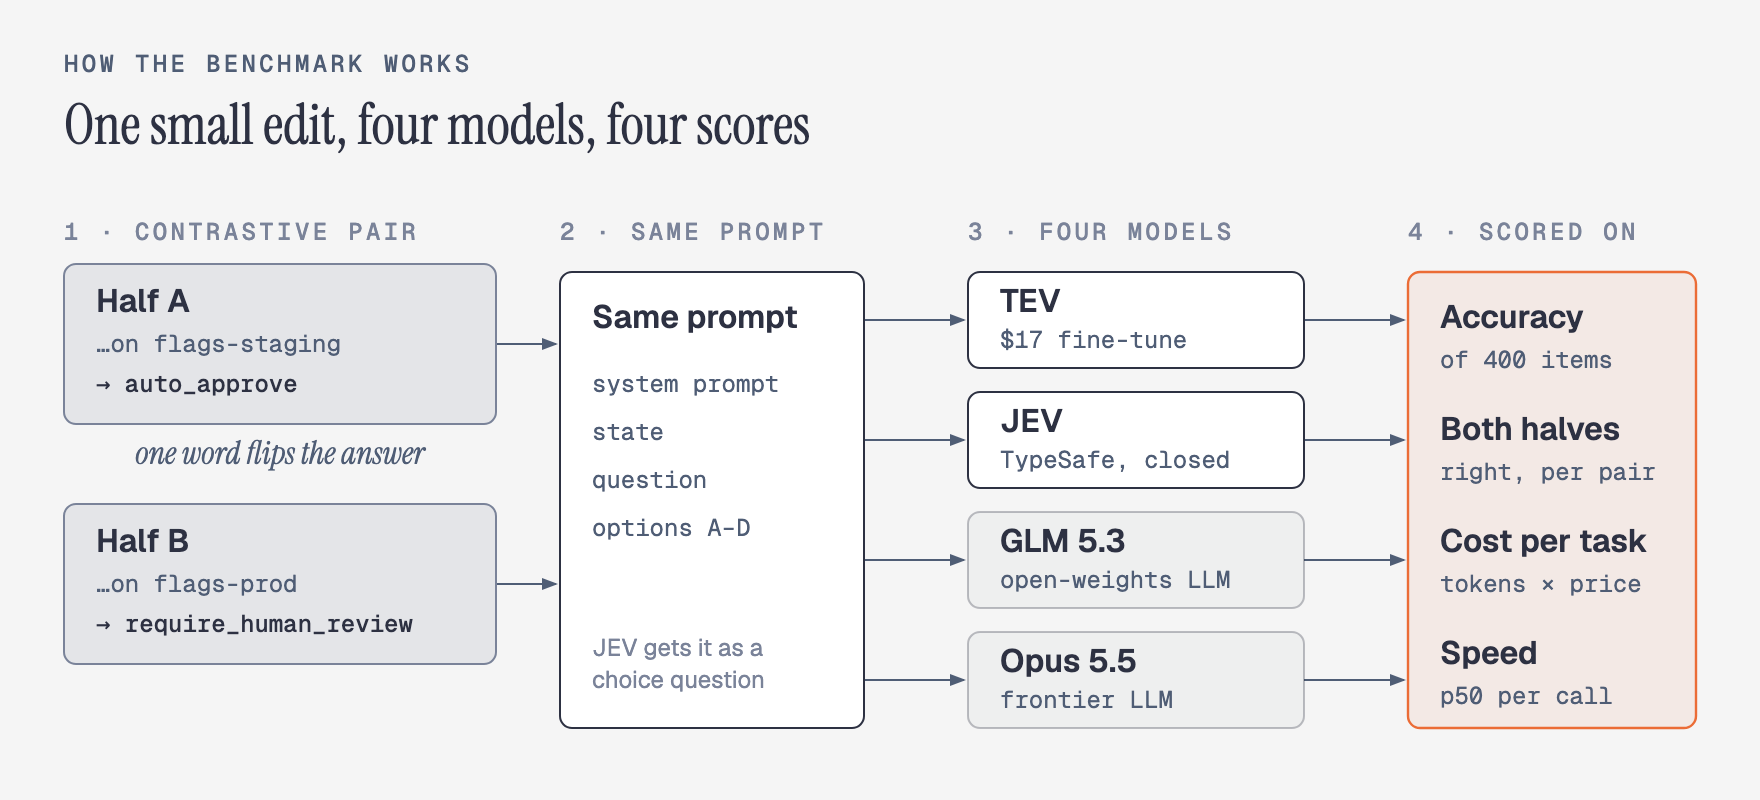
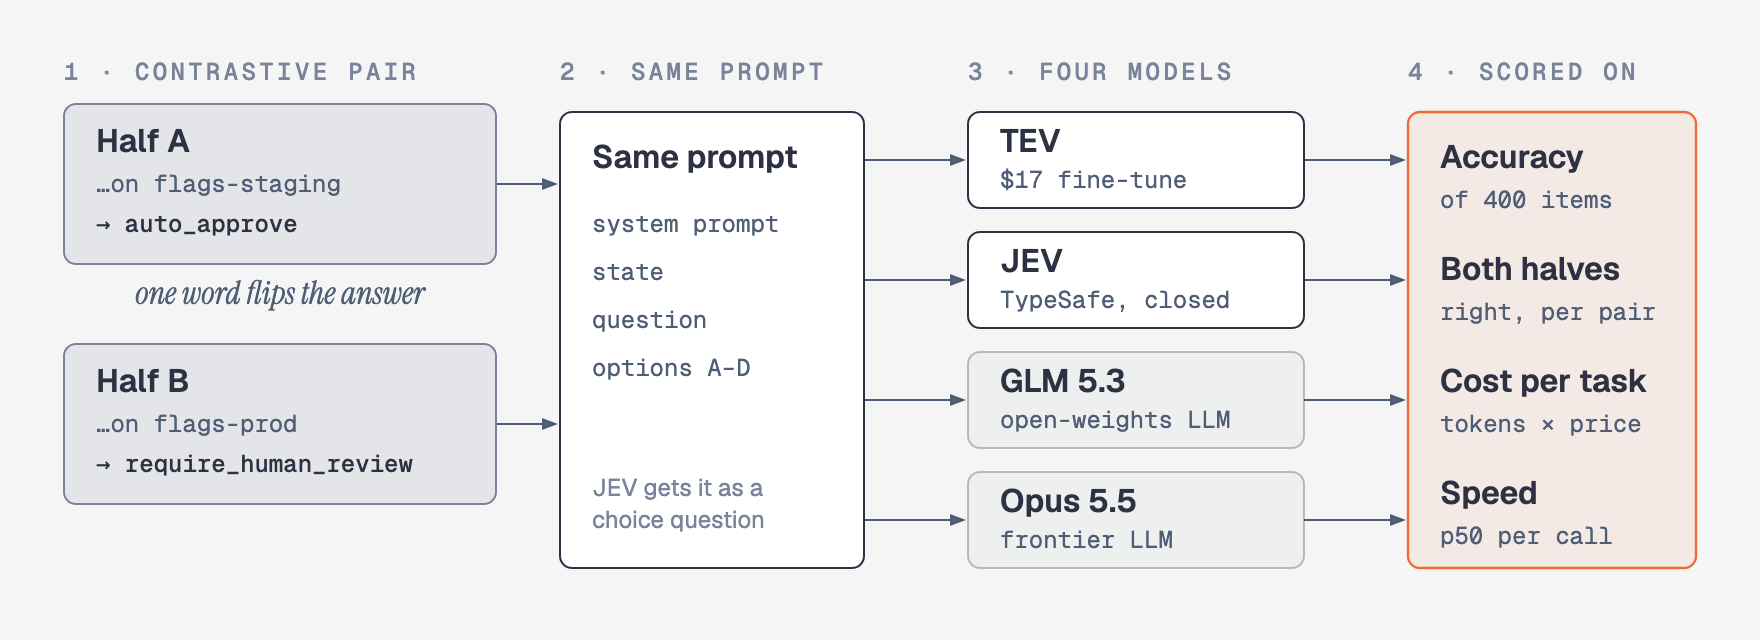
Drop title and kicker from README diagrams
The headline-style titles read as filler; the README headings and alt text
already carry the context. Each diagram is cropped so it starts at the chart.

diff --git a/docs/diagrams/how-it-works.html b/docs/diagrams/how-it-works.html
@@ -1,11 +1,9 @@
 <!DOCTYPE html><html lang="en"><head><meta charset="UTF-8"><title>how-it-works</title><link href="https://fonts.googleapis.com/css2?family=Instrument+Serif:ital@0;1&family=Geist:wght@400;500;600&family=Geist+Mono:wght@400;500;600&display=swap" rel="stylesheet"><style>*{margin:0;padding:0}body{background:#f5f5f5}svg{display:block}</style></head><body>
-<svg viewBox="0 0 880 400" width="880" height="400" xmlns="http://www.w3.org/2000/svg" role="img" aria-labelledby="how-it-works-title how-it-works-desc">
+<svg viewBox="0 80 880 320" width="880" height="320" xmlns="http://www.w3.org/2000/svg" role="img" aria-labelledby="how-it-works-title how-it-works-desc">
 <title id="how-it-works-title">One small edit, four models, four scores</title>
 <desc id="how-it-works-desc">Flow diagram: two halves of a contrastive pair differ by one word and have different correct answers; both go through the same prompt to TEV, JEV, GLM 5.3 and Opus 5.5, and each model is scored on accuracy, pair accuracy, cost per task and speed.</desc>
 <defs><marker id="arrow" markerWidth="8" markerHeight="6" refX="7" refY="3" orient="auto"><polygon points="0 0, 8 3, 0 6" fill="#4f5d75"/></marker><marker id="arrow-accent" markerWidth="8" markerHeight="6" refX="7" refY="3" orient="auto"><polygon points="0 0, 8 3, 0 6" fill="#eb6c36"/></marker></defs>
-<rect width="100%" height="100%" fill="#f5f5f5"/>
-<text x="32" y="36" fill="#4f5d75" font-size="12" font-family="'Geist Mono', ui-monospace, monospace" font-weight="500" text-anchor="start" letter-spacing="0.14em">HOW THE BENCHMARK WORKS</text>
-<text x="32" y="72" fill="#2d3142" font-size="28" font-family="'Instrument Serif', Georgia, serif" font-weight="400" text-anchor="start" >One small edit, four models, four scores</text>
+<rect y="80" width="100%" height="100%" fill="#f5f5f5"/>
 <text x="32" y="120" fill="#7a8399" font-size="12" font-family="'Geist Mono', ui-monospace, monospace" font-weight="500" text-anchor="start" letter-spacing="0.14em">1 · CONTRASTIVE PAIR</text>
 <text x="280" y="120" fill="#7a8399" font-size="12" font-family="'Geist Mono', ui-monospace, monospace" font-weight="500" text-anchor="start" letter-spacing="0.14em">2 · SAME PROMPT</text>
 <text x="484" y="120" fill="#7a8399" font-size="12" font-family="'Geist Mono', ui-monospace, monospace" font-weight="500" text-anchor="start" letter-spacing="0.14em">3 · FOUR MODELS</text>

diff --git a/docs/diagrams/cost-vs-accuracy.html b/docs/diagrams/cost-vs-accuracy.html
@@ -1,11 +1,9 @@
 <!DOCTYPE html><html lang="en"><head><meta charset="UTF-8"><title>cost-vs-accuracy</title><link href="https://fonts.googleapis.com/css2?family=Instrument+Serif:ital@0;1&family=Geist:wght@400;500;600&family=Geist+Mono:wght@400;500;600&display=swap" rel="stylesheet"><style>*{margin:0;padding:0}body{background:#f5f5f5}svg{display:block}</style></head><body>
-<svg viewBox="0 0 880 504" width="880" height="504" xmlns="http://www.w3.org/2000/svg" role="img" aria-labelledby="cost-vs-accuracy-title cost-vs-accuracy-desc">
+<svg viewBox="0 76 880 428" width="880" height="428" xmlns="http://www.w3.org/2000/svg" role="img" aria-labelledby="cost-vs-accuracy-title cost-vs-accuracy-desc">
 <title id="cost-vs-accuracy-title">Frontier LLMs add 2 points for 41–87× the price</title>
 <desc id="cost-vs-accuracy-desc">Scatter plot of accuracy against cost per million tasks on a log scale: TEV 90.0% at about $10, JEV 97.2% at about $20, GLM 5.3 99.0% at about $810, Opus 5.5 99.2% at about $1,708.</desc>
 <defs><marker id="arrow" markerWidth="8" markerHeight="6" refX="7" refY="3" orient="auto"><polygon points="0 0, 8 3, 0 6" fill="#4f5d75"/></marker><marker id="arrow-accent" markerWidth="8" markerHeight="6" refX="7" refY="3" orient="auto"><polygon points="0 0, 8 3, 0 6" fill="#eb6c36"/></marker></defs>
-<rect width="100%" height="100%" fill="#f5f5f5"/>
-<text x="32" y="36" fill="#4f5d75" font-size="12" font-family="'Geist Mono', ui-monospace, monospace" font-weight="500" text-anchor="start" letter-spacing="0.14em">COST VS ACCURACY</text>
-<text x="32" y="72" fill="#2d3142" font-size="28" font-family="'Instrument Serif', Georgia, serif" font-weight="400" text-anchor="start" >Frontier LLMs add 2 points for 41–87× the price</text>
+<rect y="76" width="100%" height="100%" fill="#f5f5f5"/>
 <text x="24" y="276" fill="#4f5d75" font-size="12" font-family="'Geist Mono', ui-monospace, monospace" font-weight="500" text-anchor="middle" letter-spacing="0.14em" transform="rotate(-90 24 276)">ACCURACY</text>
 <text x="468" y="484" fill="#4f5d75" font-size="12" font-family="'Geist Mono', ui-monospace, monospace" font-weight="500" text-anchor="middle" letter-spacing="0.14em">COST PER 1M TASKS (LOG SCALE)</text>
 <line x1="112" y1="416" x2="824" y2="416" stroke="rgba(45,49,66,0.08)" stroke-width="0.8"/>

diff --git a/docs/diagrams/prompts-matter.html b/docs/diagrams/prompts-matter.html
@@ -1,11 +1,9 @@
 <!DOCTYPE html><html lang="en"><head><meta charset="UTF-8"><title>prompts-matter</title><link href="https://fonts.googleapis.com/css2?family=Instrument+Serif:ital@0;1&family=Geist:wght@400;500;600&family=Geist+Mono:wght@400;500;600&display=swap" rel="stylesheet"><style>*{margin:0;padding:0}body{background:#f5f5f5}svg{display:block}</style></head><body>
-<svg viewBox="0 0 880 516" width="880" height="516" xmlns="http://www.w3.org/2000/svg" role="img" aria-labelledby="prompts-matter-title prompts-matter-desc">
+<svg viewBox="0 88 880 428" width="880" height="428" xmlns="http://www.w3.org/2000/svg" role="img" aria-labelledby="prompts-matter-title prompts-matter-desc">
 <title id="prompts-matter-title">Rewording barely matters. Option descriptions do.</title>
 <desc id="prompts-matter-desc">Diverging bar chart of accuracy change from each model&#x27;s default prompt, for TEV and JEV under four prompt changes. Removing option descriptions costs TEV 6.8 points and JEV 4.5; other changes move accuracy by under a point.</desc>
 <defs><marker id="arrow" markerWidth="8" markerHeight="6" refX="7" refY="3" orient="auto"><polygon points="0 0, 8 3, 0 6" fill="#4f5d75"/></marker><marker id="arrow-accent" markerWidth="8" markerHeight="6" refX="7" refY="3" orient="auto"><polygon points="0 0, 8 3, 0 6" fill="#eb6c36"/></marker></defs>
-<rect width="100%" height="100%" fill="#f5f5f5"/>
-<text x="32" y="36" fill="#4f5d75" font-size="12" font-family="'Geist Mono', ui-monospace, monospace" font-weight="500" text-anchor="start" letter-spacing="0.14em">PROMPTS MATTER TOO</text>
-<text x="32" y="72" fill="#2d3142" font-size="28" font-family="'Instrument Serif', Georgia, serif" font-weight="400" text-anchor="start" >Rewording barely matters. Option descriptions do.</text>
+<rect y="88" width="100%" height="100%" fill="#f5f5f5"/>
 <rect x="24" y="340" width="832" height="56" rx="6" fill="rgba(235,108,54,0.08)" stroke="rgba(235,108,54,0.50)" stroke-width="0.8" stroke-dasharray="4,4"/>
 <line x1="312" y1="144" x2="312" y2="400" stroke="rgba(45,49,66,0.08)" stroke-width="0.8"/>
 <text x="312" y="424" fill="#4f5d75" font-size="12" font-family="'Geist Mono', ui-monospace, monospace" font-weight="400" text-anchor="middle" >-8</text>

diff --git a/docs/diagrams/speed.html b/docs/diagrams/speed.html
@@ -1,11 +1,9 @@
 <!DOCTYPE html><html lang="en"><head><meta charset="UTF-8"><title>speed</title><link href="https://fonts.googleapis.com/css2?family=Instrument+Serif:ital@0;1&family=Geist:wght@400;500;600&family=Geist+Mono:wght@400;500;600&display=swap" rel="stylesheet"><style>*{margin:0;padding:0}body{background:#f5f5f5}svg{display:block}</style></head><body>
-<svg viewBox="0 0 880 376" width="880" height="376" xmlns="http://www.w3.org/2000/svg" role="img" aria-labelledby="speed-title speed-desc">
+<svg viewBox="0 80 880 296" width="880" height="296" xmlns="http://www.w3.org/2000/svg" role="img" aria-labelledby="speed-title speed-desc">
 <title id="speed-title">TEV answers in under a fifth of a second</title>
 <desc id="speed-desc">Horizontal bar chart of median latency per call: TEV 173 ms, JEV 459 ms, GLM 5.3 2,879 ms, Opus 5.5 2,477 ms.</desc>
 <defs><marker id="arrow" markerWidth="8" markerHeight="6" refX="7" refY="3" orient="auto"><polygon points="0 0, 8 3, 0 6" fill="#4f5d75"/></marker><marker id="arrow-accent" markerWidth="8" markerHeight="6" refX="7" refY="3" orient="auto"><polygon points="0 0, 8 3, 0 6" fill="#eb6c36"/></marker></defs>
-<rect width="100%" height="100%" fill="#f5f5f5"/>
-<text x="32" y="36" fill="#4f5d75" font-size="12" font-family="'Geist Mono', ui-monospace, monospace" font-weight="500" text-anchor="start" letter-spacing="0.14em">SPEED</text>
-<text x="32" y="72" fill="#2d3142" font-size="28" font-family="'Instrument Serif', Georgia, serif" font-weight="400" text-anchor="start" >TEV answers in under a fifth of a second</text>
+<rect y="80" width="100%" height="100%" fill="#f5f5f5"/>
 <line x1="168" y1="112" x2="168" y2="304" stroke="rgba(45,49,66,0.08)" stroke-width="0.8"/>
 <text x="168" y="328" fill="#4f5d75" font-size="12" font-family="'Geist Mono', ui-monospace, monospace" font-weight="400" text-anchor="middle" >0 ms</text>
 <line x1="365" y1="112" x2="365" y2="304" stroke="rgba(45,49,66,0.08)" stroke-width="0.8"/>

diff --git a/bench/charts.py b/bench/charts.py
@@ -43,9 +43,11 @@ def eyebrow(x, y, s, fill=MUTED, anchor="start"):
     return text(x, y, s.upper(), 12, fill, MONO, 500, anchor, 'letter-spacing="0.14em"')
 
 
-def header(slug: str, kicker: str, title: str, desc: str, h: int) -> list[str]:
+def header(slug: str, title: str, desc: str, h: int, dy: int) -> list[str]:
+    """Open the SVG. No visible heading: the README supplies context, so the drawing starts at the top.
+    Content is laid out in the original coordinates and shifted up by `dy`; the SVG is `h` tall."""
     return [
-        f'<svg viewBox="0 0 {W} {h}" width="{W}" height="{h}" xmlns="http://www.w3.org/2000/svg" role="img" '
+        f'<svg viewBox="0 {dy} {W} {h}" width="{W}" height="{h}" xmlns="http://www.w3.org/2000/svg" role="img" '
         f'aria-labelledby="{slug}-title {slug}-desc">',
         f'<title id="{slug}-title">{escape(title)}</title>',
         f'<desc id="{slug}-desc">{escape(desc)}</desc>',
@@ -53,9 +55,7 @@ def header(slug: str, kicker: str, title: str, desc: str, h: int) -> list[str]:
         f'<polygon points="0 0, 8 3, 0 6" fill="{MUTED}"/></marker>'
         '<marker id="arrow-accent" markerWidth="8" markerHeight="6" refX="7" refY="3" orient="auto">'
         f'<polygon points="0 0, 8 3, 0 6" fill="{ACCENT}"/></marker></defs>',
-        f'<rect width="100%" height="100%" fill="{PAPER}"/>',
-        eyebrow(32, 36, kicker),
-        text(32, 72, title, 28, INK, SERIF),
+        f'<rect y="{dy}" width="100%" height="100%" fill="{PAPER}"/>',
     ]
 
 
@@ -70,12 +70,13 @@ def page(slug: str, svg: list[str]) -> str:
 
 
 def how_it_works() -> tuple[str, int]:
-    h = 400
-    s = header("how-it-works", "How the benchmark works",
+    dy = 80
+    h = 400 - dy
+    s = header("how-it-works",
                "One small edit, four models, four scores",
                "Flow diagram: two halves of a contrastive pair differ by one word and have different correct "
                "answers; both go through the same prompt to TEV, JEV, GLM 5.3 and Opus 5.5, and each model is "
-               "scored on accuracy, pair accuracy, cost per task and speed.", h)
+               "scored on accuracy, pair accuracy, cost per task and speed.", h, dy)
     top, bottom = 136, 364  # shared vertical span of the prompt, model and score columns
     cols = {"pair": (32, 216), "prompt": (280, 152), "models": (484, 168), "score": (704, 144)}
     for key, label in (("pair", "1 · contrastive pair"), ("prompt", "2 · same prompt"),
@@ -139,7 +140,8 @@ def how_it_works() -> tuple[str, int]:
 
 
 def cost_vs_accuracy(summ: dict) -> tuple[str, int]:
-    h = 504
+    dy = 76
+    h = 504 - dy
     per_k = {p: summ[p]["cost_task"] * 1000 for p in summ}  # USD per 1,000 tasks
     frontier = [p for p in ("glm", "opus") if p in summ]
     ratios = [per_k[p] / per_k["jev"] for p in frontier]
@@ -150,9 +152,9 @@ def cost_vs_accuracy(summ: dict) -> tuple[str, int]:
     def money(usd):
         return f"{usd * 100:.0f}¢" if usd < 1 else f"${usd:.2f}"
 
-    s = header("cost-vs-accuracy", "Cost vs accuracy", title,
+    s = header("cost-vs-accuracy", title,
                "Scatter plot of accuracy against cost per million tasks on a log scale: TEV 90.0% at about $10, "
-               "JEV 97.2% at about $20, GLM 5.3 99.0% at about $810, Opus 5.5 99.2% at about $1,708.", h)
+               "JEV 97.2% at about $20, GLM 5.3 99.0% at about $810, Opus 5.5 99.2% at about $1,708.", h, dy)
     x0, x1, y0, y1 = 112, 824, 416, 136  # plot box
     lo, hi = math.log10(5), math.log10(5000)
     a_lo, a_hi = 85.0, 100.0
@@ -187,9 +189,9 @@ def cost_vs_accuracy(summ: dict) -> tuple[str, int]:
         r, fill, stroke = (6, "rgba(235,108,54,0.15)", ACCENT) if focal else (5, "rgba(79,93,117,0.20)", MUTED)
         s += [f'<circle cx="{x}" cy="{y}" r="{r}" fill="{PAPER}"/>',
               f'<circle cx="{x}" cy="{y}" r="{r}" fill="{fill}" stroke="{stroke}" stroke-width="1.2"/>']
-        dx, dy, anchor = place[p]
-        s.append(text(x + dx, y + dy, SHORT[p], 16, INK, SANS, 600, anchor))
-        s.append(text(x + dx, y + dy + 18, f"{acc:.1f}% · ${cost_1m:,.0f}", 12, MUTED, MONO, 400, anchor))
+        dx, ly, anchor = place[p]
+        s.append(text(x + dx, y + ly, SHORT[p], 16, INK, SANS, 600, anchor))
+        s.append(text(x + dx, y + ly + 18, f"{acc:.1f}% · ${cost_1m:,.0f}", 12, MUTED, MONO, 400, anchor))
 
     cheap = " and ".join(f"{SHORT[p]} {money(per_k[p])}" for p in ("tev", "jev"))
     dear = " and ".join(f"{SHORT[p]} {money(per_k[p])}" for p in frontier)
@@ -204,10 +206,11 @@ def cost_vs_accuracy(summ: dict) -> tuple[str, int]:
 
 def speed(summ: dict) -> tuple[str, int]:
     order = [p for p in ("tev", "jev", "glm", "opus") if p in summ]
-    h = 136 + 48 * len(order) + 48
-    s = header("speed", "Speed", "TEV answers in under a fifth of a second",
+    dy = 80
+    h = 136 + 48 * len(order) + 48 - dy
+    s = header("speed", "TEV answers in under a fifth of a second",
                "Horizontal bar chart of median latency per call: TEV 173 ms, JEV 459 ms, GLM 5.3 2,879 ms, "
-               "Opus 5.5 2,477 ms.", h)
+               "Opus 5.5 2,477 ms.", h, dy)
     x0, x1, top = 168, 760, 112
     vmax = 3000
     scale = (x1 - x0) / vmax
@@ -227,7 +230,7 @@ def speed(summ: dict) -> tuple[str, int]:
               f'<rect x="{x0}" y="{y}" width="{w}" height="24" fill="{PAPER}"/>',
               f'<rect x="{x0}" y="{y}" width="{w}" height="24" fill="{fill}" stroke="{stroke}" stroke-width="1"/>',
               text(x0 + w + 12, y + 17, f"{v:,.0f} ms", 12, ACCENT if focal else MUTED, MONO, 500)]
-    s.append(text(x0, h - 16, "Median wall-clock time per call, as seen by the caller. Lower is better.", 12, SOFT, SANS))
+    s.append(text(x0, h + dy - 16, "Median wall-clock time per call, as seen by the caller. Lower is better.", 12, SOFT, SANS))
     return page("speed", s), h
 
 
@@ -240,12 +243,13 @@ def prompts_matter(pdata: dict) -> tuple[str, int]:
     variants = [(v, d) for v, d in variants if ("tev", v) in pdata and ("jev", v) in pdata]
     row = 64
     top = 144
-    h = top + row * len(variants) + 116
-    s = header("prompts-matter", "Prompts matter too",
+    dy = 88
+    h = top + row * len(variants) + 116 - dy
+    s = header("prompts-matter",
                "Rewording barely matters. Option descriptions do.",
                "Diverging bar chart of accuracy change from each model's default prompt, for TEV and JEV under four "
                "prompt changes. Removing option descriptions costs TEV 6.8 points and JEV 4.5; other changes move "
-               "accuracy by under a point.", h)
+               "accuracy by under a point.", h, dy)
     x_lo, x_hi = -8.0, 2.0
     px0, px1 = 312, 712
     scale = (px1 - px0) / (x_hi - x_lo)
@@ -287,7 +291,7 @@ def prompts_matter(pdata: dict) -> tuple[str, int]:
         s.append(text(W - 40, y + 36, " / ".join(changed), 16, ACCENT if v == worst else MUTED, MONO, 500, "end"))
 
     # legend strip
-    ly = h - 20
+    ly = h + dy - 20
     s.append(f'<line x1="32" y1="{ly - 20}" x2="{W - 32}" y2="{ly - 20}" stroke="{RULE}" stroke-width="0.8"/>')
     s.append(eyebrow(32, ly, "legend"))
     for k, (m, color) in enumerate((("tev", SERIES_2), ("jev", SERIES_1))):
